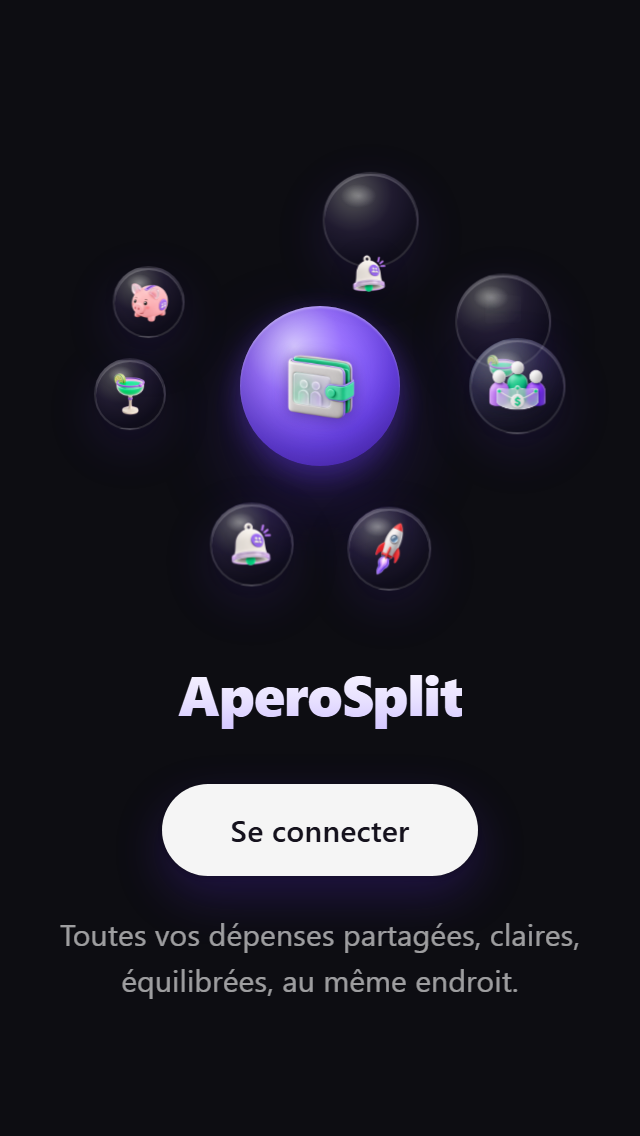
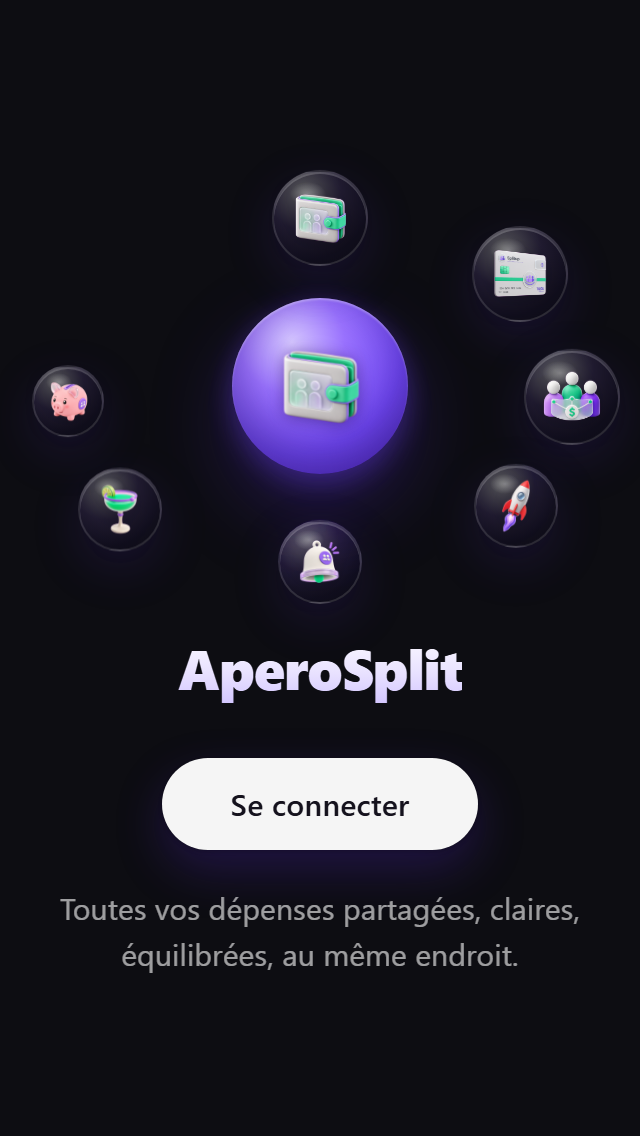
feat: restructure intro like icloud.com - fixed orbs in wide ellipse, subtle float, fade-in entrance (config extracted)

diff --git a/client/src/components/CategoryOrb.tsx b/client/src/components/CategoryOrb.tsx
@@ -1,14 +1,10 @@
-import { useEffect, useMemo, useRef, useState } from "react";
-import { AnimatePresence, motion, useAnimationFrame } from "framer-motion";
+import { useEffect, useState } from "react";
+import type { CSSProperties } from "react";
+import { AnimatePresence, motion } from "framer-motion";
 import type { LucideIcon } from "lucide-react";
 
 const EASE: [number, number, number, number] = [0.22, 1, 0.36, 1];
-const ENTER_DUR = 0.7;
-
-function easeOutCubic(t: number) {
-  const c = 1 - t;
-  return 1 - c * c * c;
-}
+const ENTER_DURATION = 0.55;
 
 export interface CategoryOrbProps {
   image?: string;
@@ -19,7 +15,8 @@ export interface CategoryOrbProps {
   x?: number;
   y?: number;
   delay?: number;
-  speed?: number;
+  floatDuration?: number;
+  floatDelay?: number;
   startIndex?: number;
   swapInterval?: number;
 }
@@ -33,7 +30,8 @@ export function CategoryOrb({
   x = 0,
   y = 0,
   delay = 0.55,
-  speed = 0.08,
+  floatDuration = 7,
+  floatDelay = 0,
   startIndex = 0,
   swapInterval = 3200,
 }: CategoryOrbProps) {
@@ -42,70 +40,54 @@ export function CategoryOrb({
   const available = pool.filter((p) => !failed.has(p));
   const [idx, setIdx] = useState(() => (available.length ? startIndex % available.length : 0));
 
-  const reduced = useMemo(
-    () => typeof window !== "undefined" && (window.matchMedia?.("(prefers-reduced-motion: reduce)").matches ?? false),
-    []
-  );
-
-  const radius = Math.hypot(x, y);
-  const angle0 = Math.atan2(y, x);
-  const orbRef = useRef<HTMLDivElement>(null);
-  const startTimeRef = useRef<number | null>(null);
-
   useEffect(() => {
-    if (available.length < 2 || reduced) return;
+    if (available.length < 2) return;
     const t = setInterval(() => setIdx((prev) => (prev + 1) % available.length), swapInterval);
     return () => clearInterval(t);
-  }, [available.length, swapInterval, reduced]);
-
-  useEffect(() => {
-    const el = orbRef.current;
-    if (!el || !reduced) return;
-    el.style.transform = `translate(${x}px, ${y}px) scale(1)`;
-    el.style.opacity = "1";
-  }, [reduced, x, y]);
-
-  useAnimationFrame((time) => {
-    if (reduced) return;
-    const el = orbRef.current;
-    if (!el) return;
-    if (startTimeRef.current === null) startTimeRef.current = time;
-    const elapsed = (time - startTimeRef.current) / 1000;
-    const t = Math.max(0, Math.min(1, (elapsed - delay) / ENTER_DUR));
-    const e = easeOutCubic(t);
-    const r = radius * e;
-    const theta = angle0 + speed * Math.max(0, elapsed - delay);
-    el.style.transform = `translate3d(${(r * Math.cos(theta)).toFixed(2)}px, ${(r * Math.sin(theta)).toFixed(2)}px, 0) scale(${(0.35 + 0.65 * e).toFixed(3)})`;
-    el.style.opacity = Math.min(1, e / 0.2).toFixed(2);
-  });
+  }, [available.length, swapInterval]);
 
   const current = available.length ? available[idx % available.length] : null;
+  const half = size / 2;
+  const style = {
+    width: size,
+    height: size,
+    left: `calc(50% - ${half}px + ${x}px)`,
+    top: `calc(50% - ${half}px + ${y}px)`,
+    "--float-dur": `${floatDuration}s`,
+    "--float-delay": `${floatDelay}s`,
+  } as CSSProperties;
 
   return (
-    <div className="orb-anchor" style={{ width: size, height: size }}>
-      <div ref={orbRef} className="category-orb" role="img" aria-label={label} style={{ opacity: 0 }}>
-        <div className="orb-glass">
-          {current ? (
-            <AnimatePresence initial={false}>
-              <motion.img
-                key={current}
-                className="orb-img"
-                src={current}
-                alt={label}
-                loading="eager"
-                draggable={false}
-                initial={{ opacity: 0, scale: 0.95 }}
-                animate={{ opacity: 1, scale: 1 }}
-                exit={{ opacity: 0 }}
-                transition={{ duration: 0.6, ease: EASE }}
-                onError={() => setFailed((prev) => new Set(prev).add(current))}
-              />
-            </AnimatePresence>
-          ) : (
-            <Icon className="orb-icon" strokeWidth={1.8} />
-          )}
-        </div>
+    <motion.div
+      className="category-orb"
+      role="img"
+      aria-label={label}
+      style={style}
+      initial={{ opacity: 0, scale: 0.85 }}
+      animate={{ opacity: 1, scale: 1 }}
+      transition={{ delay, duration: ENTER_DURATION, ease: EASE }}
+    >
+      <div className="orb-glass">
+        {current ? (
+          <AnimatePresence initial={false}>
+            <motion.img
+              key={current}
+              className="orb-img"
+              src={current}
+              alt={label}
+              loading="eager"
+              draggable={false}
+              initial={{ opacity: 0, scale: 0.95 }}
+              animate={{ opacity: 1, scale: 1 }}
+              exit={{ opacity: 0 }}
+              transition={{ duration: 0.6, ease: EASE }}
+              onError={() => setFailed((prev) => new Set(prev).add(current))}
+            />
+          </AnimatePresence>
+        ) : (
+          <Icon className="orb-icon" strokeWidth={1.8} />
+        )}
       </div>
-    </div>
+    </motion.div>
   );
 }

diff --git a/client/src/components/IntroScreen.tsx b/client/src/components/IntroScreen.tsx
@@ -1,49 +1,11 @@
 import { useCallback, useEffect, useRef, useState } from "react";
 import { motion, MotionConfig } from "framer-motion";
-import { Car, Gamepad2, House, Plane, Receipt, ShoppingBag, Utensils } from "lucide-react";
-import type { LucideIcon } from "lucide-react";
 import { haptics } from "../utils/haptics";
+import { CATEGORY_ORBS, CENTER_IMAGE, ORB_IMAGES } from "./introConfig";
 import { CategoryOrb } from "./CategoryOrb";
 
 const EASE: [number, number, number, number] = [0.22, 1, 0.36, 1];
 const EXIT_MS = 550;
-
-const CENTER_IMAGE = "/categories/aperosplit_icon.png";
-
-const ORB_IMAGES = [
-  CENTER_IMAGE,
-  "/categories/aperosplit_bell_final.png",
-  "/categories/aperosplit_calendar_final.png",
-  "/categories/aperosplit_card_final.png",
-  "/categories/aperosplit_cocktail_final.png",
-  "/categories/aperosplit_gift_final.png",
-  "/categories/aperosplit_group_final.png",
-  "/categories/aperosplit_piggy_bank_final.png",
-  "/categories/aperosplit_receipt_final.png",
-  "/categories/aperosplit_rocket_final.png",
-  "/categories/aperosplit_shopping_bag_final.png",
-];
-
-interface OrbConfig {
-  label: string;
-  icon: LucideIcon;
-  x: number;
-  y: number;
-  size: number;
-  speed: number;
-  startIndex: number;
-  swapInterval: number;
-}
-
-const CATEGORY_ORBS: OrbConfig[] = [
-  { label: "Transport", icon: Car, x: 12, y: -86, size: 48, speed: 0.06, startIndex: 0, swapInterval: 2600 },
-  { label: "Voyage", icon: Plane, x: 82, y: -52, size: 48, speed: 0.09, startIndex: 3, swapInterval: 2950 },
-  { label: "Shopping", icon: ShoppingBag, x: 98, y: 12, size: 48, speed: -0.05, startIndex: 6, swapInterval: 3300 },
-  { label: "Loisirs", icon: Gamepad2, x: 54, y: 70, size: 42, speed: 0.11, startIndex: 9, swapInterval: 3650 },
-  { label: "Logement", icon: House, x: -46, y: 73, size: 42, speed: -0.07, startIndex: 1, swapInterval: 4000 },
-  { label: "Nourriture", icon: Utensils, x: -93, y: 20, size: 36, speed: 0.08, startIndex: 4, swapInterval: 4350 },
-  { label: "Factures", icon: Receipt, x: -80, y: -52, size: 36, speed: -0.06, startIndex: 7, swapInterval: 4700 },
-];
 
 function CenterMark() {
   const [failed, setFailed] = useState(false);
@@ -108,6 +70,7 @@ export function IntroScreen({ onLogin }: IntroScreenProps) {
         <div className="intro-stage">
           <motion.div
             className="intro-constellation"
+            initial={{ opacity: 0, scale: 0.98 }}
             animate={exiting ? { scale: 1.03, opacity: 0 } : { scale: 1, opacity: 1 }}
             transition={{ duration: EXIT_MS / 1000, ease: "easeInOut" }}
           >
@@ -116,7 +79,7 @@ export function IntroScreen({ onLogin }: IntroScreenProps) {
                 className="center-sphere"
                 initial={{ opacity: 0, scale: 0.65 }}
                 animate={{ opacity: 1, scale: 1 }}
-                transition={{ delay: 0.2, duration: 0.45, ease: EASE }}
+                transition={{ delay: 0.25, duration: 0.5, ease: EASE }}
               >
                 <div className="center-breath">
                   <CenterMark />
@@ -133,8 +96,9 @@ export function IntroScreen({ onLogin }: IntroScreenProps) {
                 x={orb.x}
                 y={orb.y}
                 size={orb.size}
-                delay={0.55 + i * 0.1}
-                speed={orb.speed}
+                delay={0.55 + i * 0.09}
+                floatDuration={orb.floatDuration}
+                floatDelay={orb.floatDelay}
                 startIndex={orb.startIndex}
                 swapInterval={orb.swapInterval}
               />
@@ -150,7 +114,7 @@ export function IntroScreen({ onLogin }: IntroScreenProps) {
               className="intro-title"
               initial={{ opacity: 0, y: 12 }}
               animate={{ opacity: 1, y: 0 }}
-              transition={{ delay: 0.85, duration: 0.5, ease: EASE }}
+              transition={{ delay: 0.9, duration: 0.5, ease: EASE }}
             >
               AperoSplit
             </motion.h1>

diff --git a/client/src/components/introConfig.ts b/client/src/components/introConfig.ts
@@ -1,0 +1,40 @@
+import { Car, Gamepad2, House, Plane, Receipt, ShoppingBag, Utensils } from "lucide-react";
+import type { LucideIcon } from "lucide-react";
+
+export const CENTER_IMAGE = "/categories/aperosplit_icon.png";
+
+export const ORB_IMAGES = [
+  CENTER_IMAGE,
+  "/categories/aperosplit_bell_final.png",
+  "/categories/aperosplit_calendar_final.png",
+  "/categories/aperosplit_card_final.png",
+  "/categories/aperosplit_cocktail_final.png",
+  "/categories/aperosplit_gift_final.png",
+  "/categories/aperosplit_group_final.png",
+  "/categories/aperosplit_piggy_bank_final.png",
+  "/categories/aperosplit_receipt_final.png",
+  "/categories/aperosplit_rocket_final.png",
+  "/categories/aperosplit_shopping_bag_final.png",
+];
+
+export interface CategoryOrbConfig {
+  label: string;
+  icon: LucideIcon;
+  x: number;
+  y: number;
+  size: number;
+  floatDuration: number;
+  floatDelay: number;
+  startIndex: number;
+  swapInterval: number;
+}
+
+export const CATEGORY_ORBS: CategoryOrbConfig[] = [
+  { label: "Transport", icon: Car, x: 0, y: -86, size: 48, floatDuration: 7.2, floatDelay: -2.0, startIndex: 0, swapInterval: 4200 },
+  { label: "Voyage", icon: Plane, x: 100, y: -56, size: 48, floatDuration: 6.4, floatDelay: -3.5, startIndex: 3, swapInterval: 4700 },
+  { label: "Shopping", icon: ShoppingBag, x: 126, y: 6, size: 48, floatDuration: 8.1, floatDelay: -1.0, startIndex: 6, swapInterval: 5200 },
+  { label: "Loisirs", icon: Gamepad2, x: 98, y: 60, size: 42, floatDuration: 6.9, floatDelay: -4.2, startIndex: 9, swapInterval: 5600 },
+  { label: "Logement", icon: House, x: 0, y: 88, size: 42, floatDuration: 7.8, floatDelay: -5.0, startIndex: 1, swapInterval: 6100 },
+  { label: "Nourriture", icon: Utensils, x: -100, y: 60, size: 42, floatDuration: 6.1, floatDelay: -0.7, startIndex: 4, swapInterval: 6500 },
+  { label: "Factures", icon: Receipt, x: -126, y: 6, size: 36, floatDuration: 7.5, floatDelay: -2.8, startIndex: 7, swapInterval: 6900 },
+];

diff --git a/client/src/index.css b/client/src/index.css
@@ -568,13 +568,13 @@
     align-items: center;
     width: 100%;
     max-width: 420px;
-    padding: 0 24px;
+    padding: 0 10px;
   }
 
   .intro-constellation {
     position: relative;
-    width: 250px;
-    height: 250px;
+    width: 300px;
+    height: 224px;
     flex-shrink: 0;
     will-change: transform, opacity;
   }
@@ -587,8 +587,7 @@
   }
 
   .category-orb {
-    width: 100%;
-    height: 100%;
+    position: absolute;
     will-change: transform;
   }
 
@@ -613,6 +612,8 @@
     box-shadow:
       inset 0 1px 0 rgba(255, 255, 255, 0.2),
       0 8px 25px var(--orb-shadow);
+    animation: orbFloat var(--float-dur, 7s) ease-in-out var(--float-delay, 0s) infinite;
+    will-change: transform;
   }
 
   .orb-glass::after {
@@ -644,16 +645,22 @@
     filter: drop-shadow(0 1px 3px rgba(0, 0, 0, 0.3));
   }
 
+  @keyframes orbFloat {
+    0%, 100% { transform: translateY(0); }
+    33% { transform: translateY(-3px); }
+    66% { transform: translateY(2px); }
+  }
+
   /* ── Central sphere ── */
   .center-anchor {
-    width: 80px;
-    height: 80px;
+    width: 88px;
+    height: 88px;
   }
 
   @media (min-width: 768px) {
     .center-anchor {
-      width: 100px;
-      height: 100px;
+      width: 104px;
+      height: 104px;
     }
   }
 
@@ -1515,6 +1522,7 @@ html.dark .bottom-nav {
 @media (prefers-reduced-motion: reduce) {
   .ambient-orb { animation: none; }
   .tab-content-animate { animation: none; opacity: 1; }
+  .orb-glass, .center-breath { animation: none; }
 }
 
 /* ═══ iOS Safari / PWA polish ═══ */
